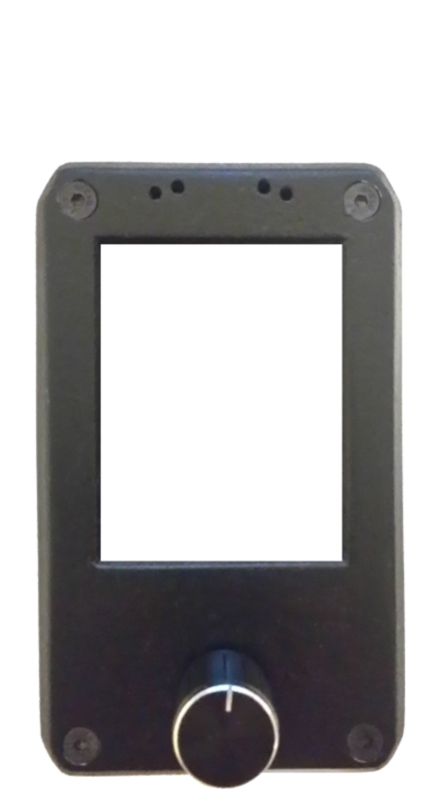
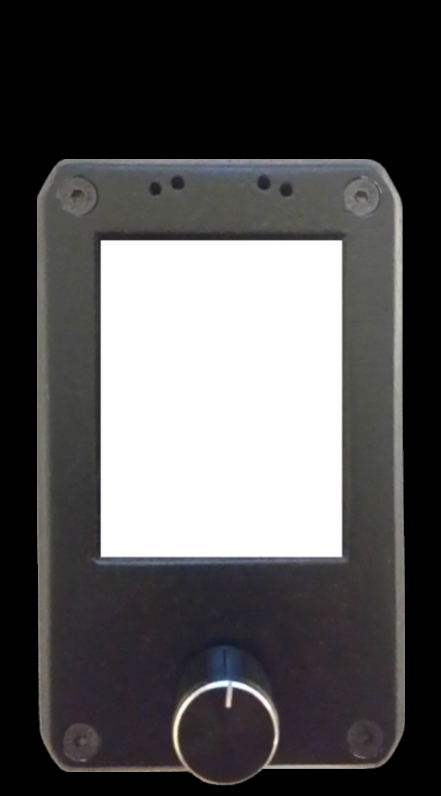
change dock.png for simulator

diff --git a/simulator/kruxsim/devices.py b/simulator/kruxsim/devices.py
@@ -33,7 +33,7 @@ WINDOW_SIZES = {
     AMIGO_IPS: (480, 768),
     AMIGO_TFT: (480, 768),
     PC: (480, 640),
-    DOCK: (440, 800),
+    DOCK: (440, 820),
 }
 
 
